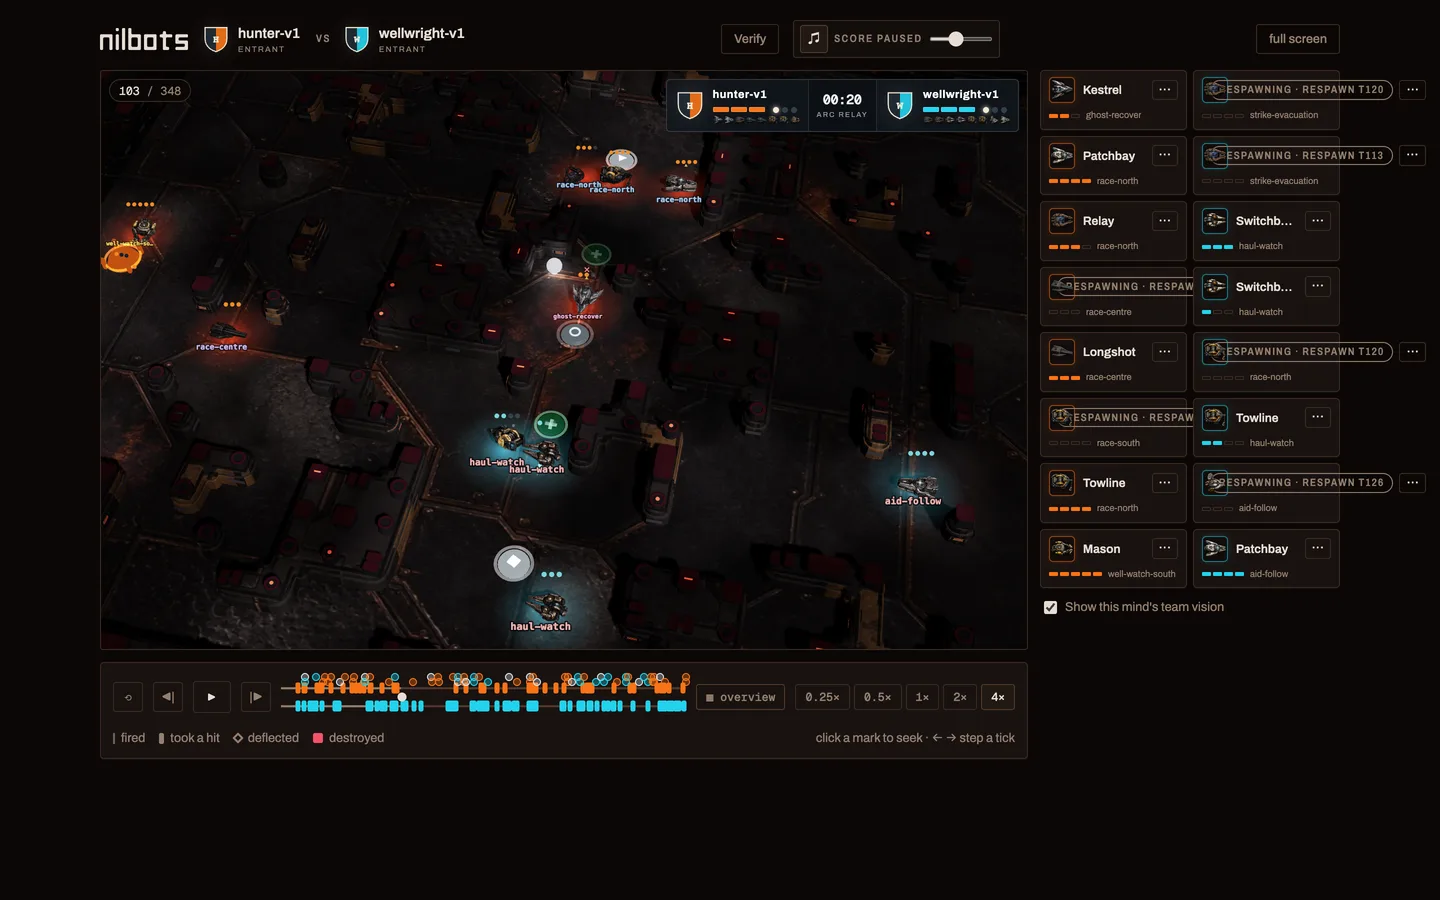
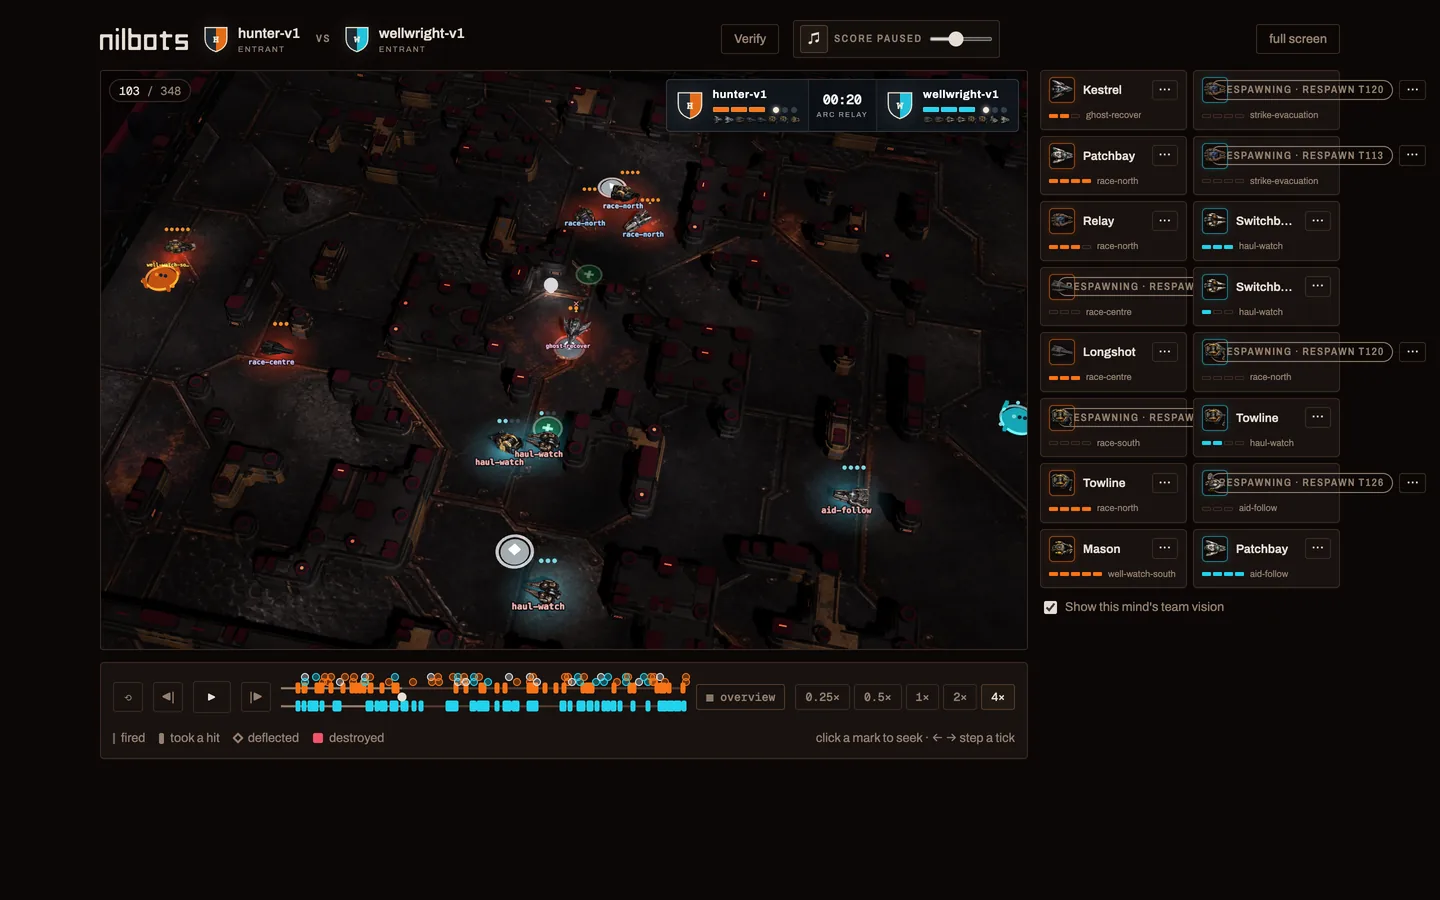
Make Ember terrain fog theme-specific

diff --git a/web/src/render3d/arenaOverlays.ts b/web/src/render3d/arenaOverlays.ts
@@ -30,6 +30,7 @@ import {
 } from '../render/teamVision';
 import { playsAt } from '../presentation/playAwareness';
 import { ARC_CORE_NEUTRAL_PALETTE } from '../presentation/arcCorePalette';
+import { arenaTheme } from '../render/arenaThemes';
 
 /**
  * What the arena knows and what it is doing to itself: fog of war, the objective zone, and
@@ -40,9 +41,6 @@ import { ARC_CORE_NEUTRAL_PALETTE } from '../presentation/arcCorePalette';
  * in the world instead, which is mostly an improvement (a flash lights the floor it is on)
  * and in one place a compromise, noted where it happens.
  */
-
-/** How dark unseen terrain goes: subdued, but still readable as known map geometry. */
-const FOG_STRENGTH = 0.58;
 
 /** How far the camera is thrown by a direct kill, in tiles. */
 const SHAKE_REACH = 0.045;
@@ -71,8 +69,14 @@ export function buildOverlays(
   const group = new THREE.Group();
   const disposables: { dispose: () => void }[] = [];
   const presenter = createPresenter(replay);
+  const theme = arenaTheme(replay.map.presentation?.themeId ?? undefined);
 
-  const fog = buildFog(mapWidth, mapHeight, disposables);
+  const fog = buildFog(
+    mapWidth,
+    mapHeight,
+    theme.environment3d.fog.unseenTerrainDarkness,
+    disposables,
+  );
   group.add(fog.mesh);
   if (terrain) applyTerrainFog(terrain, fog);
 
@@ -423,6 +427,7 @@ function buildPlayAwareness(
 function buildFog(
   mapWidth: number,
   mapHeight: number,
+  unseenTerrainDarkness: number,
   disposables: { dispose: () => void }[],
 ): {
   mesh: THREE.Mesh;
@@ -473,7 +478,9 @@ function buildFog(
         data[texel] = 0;
         data[texel + 1] = 0;
         data[texel + 2] = 0;
-        data[texel + 3] = seen.has(`${x},${y}`) ? 0 : Math.round(FOG_STRENGTH * 255);
+        data[texel + 3] = seen.has(`${x},${y}`)
+          ? 0
+          : Math.round(unseenTerrainDarkness * 255);
       }
     }
     texture.needsUpdate = true;

diff --git a/web/src/render/arenaThemes.ts b/web/src/render/arenaThemes.ts
@@ -145,6 +145,10 @@ export interface ArenaTheme {
   zoneTexture: HTMLImageElement | null;
   zoneTextureScale: number;
   environment3d: {
+    fog: {
+      /** Fraction of unseen terrain colour removed by the WebGL vision mask. */
+      unseenTerrainDarkness: number;
+    };
     camera: {
       yawDegrees: number;
       pitchDegrees: number;
@@ -191,6 +195,7 @@ interface ThemeManifest {
   id: string;
   label: string;
   environment3d?: {
+    fog?: Partial<ArenaTheme['environment3d']['fog']>;
     camera?: Partial<ArenaTheme['environment3d']['camera']>;
     lighting?: Partial<ArenaTheme['environment3d']['lighting']>;
     floor?: Partial<ArenaTheme['environment3d']['floor']>;
@@ -726,6 +731,10 @@ function environment3d(
   candidate: ThemeManifest['environment3d'],
   themeId: string,
 ): ArenaTheme['environment3d'] {
+  const fog = {
+    unseenTerrainDarkness:
+      candidate?.fog?.unseenTerrainDarkness ?? 0.58,
+  };
   const camera = {
     yawDegrees: candidate?.camera?.yawDegrees ?? 0,
     pitchDegrees: candidate?.camera?.pitchDegrees ?? 58,
@@ -746,6 +755,7 @@ function environment3d(
     colorMultiplier: candidate?.floor?.colorMultiplier ?? null,
   };
   if (
+    !finiteRange(fog.unseenTerrainDarkness, 0, 1) ||
     !finiteRange(camera.yawDegrees, -45, 45) ||
     !finiteRange(camera.pitchDegrees, 40, 70) ||
     !finiteRange(camera.fovDegrees, 18, 55) ||
@@ -762,7 +772,7 @@ function environment3d(
       !validHex(floor.colorMultiplier))
   )
     throw new Error(`Theme '${themeId}' has invalid 3D environment values.`);
-  return { camera, lighting, floor };
+  return { fog, camera, lighting, floor };
 }
 
 function finiteRange(value: number, minimum: number, maximum: number): boolean {

diff --git a/web/tests/arenaScene3d.test.ts b/web/tests/arenaScene3d.test.ts
@@ -422,9 +422,21 @@ test('Ember builds its approved raised perimeter and cover profiles', () => {
     const overlays = buildOverlays(source, undefined, arena.scene);
     const bastionMaterial = raisedModules[0]!.material;
     assert.ok(!Array.isArray(bastionMaterial));
+    const emberFog = bastionMaterial.userData.arenaVisionFog as {
+      texture: THREE.DataTexture;
+    };
     assert.ok(
-      bastionMaterial.userData.arenaVisionFog,
+      emberFog,
       'raised bastion modules must share the terrain vision shader',
+    );
+    const selected = source.units.find((unit) => unit.teamId === 0)!;
+    overlays.update(0, selected.unitKey, true);
+    const emberMask = emberFog.texture.image.data as Uint8Array;
+    assert.ok(
+      emberMask.some(
+        (value, index) => index % 4 === 3 && value === Math.round(0.42 * 255),
+      ),
+      'Ember uses its lighter theme-owned unseen-terrain darkness',
     );
     overlays.dispose();
 
@@ -665,8 +677,10 @@ test('Woodland roots remain authoritative while organic foliage overhangs', () =
     ).length;
     assert.ok(mask.some((value, index) => index % 4 === 3 && value === 0));
     assert.ok(
-      mask.some((value, index) => index % 4 === 3 && value > 0 && value < 200),
-      'unseen terrain is subdued rather than blacked out',
+      mask.some(
+        (value, index) => index % 4 === 3 && value === Math.round(0.58 * 255),
+      ),
+      'themes without an override retain the established 58% terrain fog',
     );
 
     const shader = {

diff --git a/web/tests/themeAssets.test.ts b/web/tests/themeAssets.test.ts
@@ -15,6 +15,9 @@ const stagedRoot = join(repositoryRoot, 'art', 'themes');
 type ThemeManifest = {
   id: string;
   environment3d?: {
+    fog?: {
+      unseenTerrainDarkness?: number;
+    };
     camera?: {
       yawDegrees?: number;
       pitchDegrees?: number;
@@ -252,6 +255,10 @@ test('Ember Forge carries the approved living-bastion profiles', () => {
   assert.equal(manifest.environment3d?.camera?.yawDegrees, 12);
   assert.equal(manifest.environment3d?.camera?.pitchDegrees, 52);
   assert.equal(manifest.environment3d?.camera?.fovDegrees, 28);
+  assert.equal(
+    manifest.environment3d?.fog?.unseenTerrainDarkness,
+    0.42,
+  );
   assert.equal(
     manifest.walls.families.perimeter.geometry3d?.bastionCover
       ?.boundaryDepth,

diff --git a/docs/DECISIONS.md b/docs/DECISIONS.md
@@ -6776,3 +6776,16 @@ orange team pools remain the strongest allegiance fields. Floor treatment,
 camera presets, fog semantics, replay identity, rules, map topology, collision,
 vision, objectives, and fingerprints are unchanged. This adds no bitmap source,
 provider mesh, authored whole-map mesh, or per-tile prop contract.
+
+## 261. WebGL terrain-fog darkness is theme-owned
+
+Owner direction (2026-08-09): Ember Forge's deep graphite and crimson materials
+lose too much structural detail under the shared terrain fog. The WebGL theme
+environment therefore owns `fog.unseenTerrainDarkness`, with the established
+58% treatment retained as the validated fallback for every theme that omits it.
+Ember Forge sets 42%.
+
+This changes only the presentation multiplier on unseen terrain. The
+authoritative vision tiles, unselected all-unit union, selected team mask,
+actor/projectile filtering, floor/wall continuity, and Canvas2D fallback remain
+unchanged.

diff --git a/docs/ARENA-VISUALS.md b/docs/ARENA-VISUALS.md
@@ -717,8 +717,10 @@ interaction floor in both reference phone orientations without turning
 selection into a portrait shot. The manual overview fits the three published
 Wells with half a tile of breathing room; distant home Reactors and deep aprons
 may leave the frame rather than shrinking the central theaters. Perspective
-fog darkens unseen terrain by 58% rather than blacking it out. With no selected
-perspective, the floor and raised wall/tree materials use the cross-team union
+fog darkens unseen terrain by a theme-owned amount, defaulting to 58% rather
+than blacking it out; Ember Forge uses 42% so its crimson structures retain
+readable form in fog. With no selected perspective, the floor and raised
+wall/tree materials use the cross-team union
 of every active unit's sight; selection replaces that with the chosen team's
 mask. A compact causal HUD call
 beside the standing score identifies Core

diff --git a/art/themes/ember-forge/README.md b/art/themes/ember-forge/README.md
@@ -41,7 +41,8 @@ still clears 63×63 CSS pixels. Director opens and idles on one local theater
 rather than the whole board, while overview retains the approved 24-tile
 three-Well strategic frame. The all-unit terrain fog applies to every base
 wall, raised module, apron, and floor; selecting a bot narrows that mask to its
-team.
+team. Ember owns a lighter 42% unseen-terrain darkness (the renderer default is
+58%), preserving the foundry silhouette without changing which tiles are seen.
 
 ## Source and review
 
